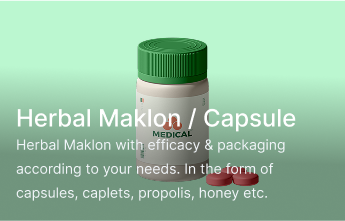
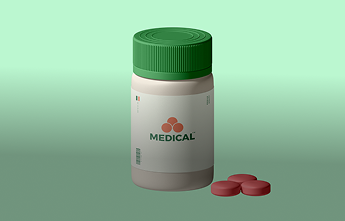
fix(home): fix product content in mobile screen

diff --git a/src/components/organism/ProductSection.tsx b/src/components/organism/ProductSection.tsx
@@ -4,15 +4,15 @@ import arrowUpRight from "/img/arrowUpright.svg";
 import product1Open from "/img/product-1-open.png";
 import product1Close from "/img/product-1-close.png";
 import product1OpenResponsive from "/img/product-1-open-responsive.png";
-import product1CloseResponsive from "/img/product-2-close-responsive.png";
+import product1CloseResponsive from "/img/product-1-close-responsive.png";
 
 import product2Open from "/img/product-2-open.png";
 import product2Close from "/img/product-2-close.png";
-import product2OpenResponsive from "/img/product-1-open-responsive.png";
+import product2OpenResponsive from "/img/product-2-open-responsive.png";
 import product2CloseResponsive from "/img/product-2-close-responsive.png";
 
 import product3Open from "/img/product-3-open.png";
-import product3OpenResponsive from "/img/product-1-open-responsive.png";
+import product3OpenResponsive from "/img/product-3-open-responsive.png";
 import product3Close from "/img/product-3-close.png";
 import product3CloseResponsive from "/img/product-3-close-responsive.png";
 
@@ -77,7 +77,7 @@ const ProductSection = (props: TranslationProps) => {
           {t("home.product.header")}
         </h1>
         {/* product image container */}
-        <div className="flex justify-center xl:flex-row flex-col gap-0">
+        <div className="flex justify-center xl:flex-row flex-col gap-0 mx-auto">
           {products.map((product) => (
             <div
               key={product.id}
@@ -95,11 +95,34 @@ const ProductSection = (props: TranslationProps) => {
                 />
                 <img
                   src={
-                    activeProduct === product.id ? product.openResponsive : product.closeResponsive
+                    activeProduct === product.id
+                      ? product.openResponsive
+                      : product.closeResponsive
                   }
                   alt={`Product ${product.id}`}
                   className="transition-all duration-300 xl:hidden block"
                 />
+
+                {/* Text overlay responsive */}
+                <div className="absolute inset-0 items-end justify-start text-start xl:hidden flex">
+                  <p className="text-white text-lg font-medium">
+                    {activeProduct === product.id ? (
+                      <div className="p-4 flex flex-col">
+                        <p className="text-2xl font-medium">
+                          {product.openText.title}
+                        </p>
+                        <p className="text-[14px] text-slate-100 font-normal leading-6">
+                          {product.openText.description}
+                        </p>
+                      </div>
+                    ) : (
+                      <p className="p-4 text-2xl font-medium">
+                        {product.openText.title}
+                      </p>
+                    )}
+                  </p>
+                </div>
+
                 {/* Text Overlay */}
                 <div className="absolute inset-0 items-end justify-start text-start xl:flex hidden">
                   <p className="text-white text-lg font-medium">
